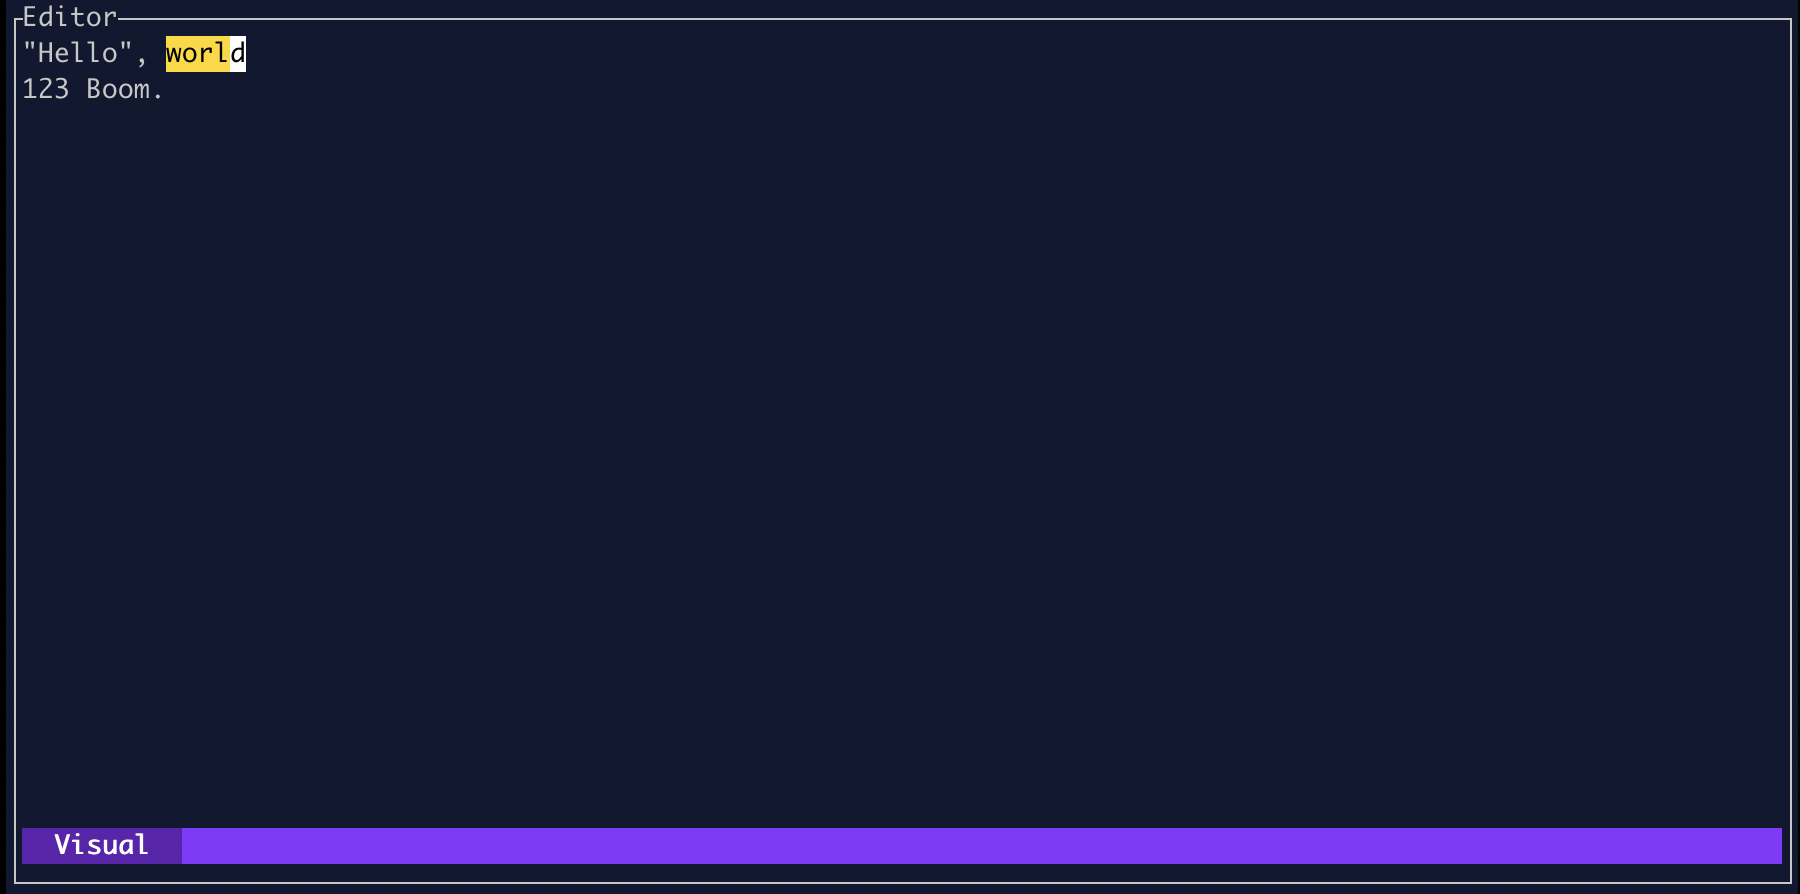
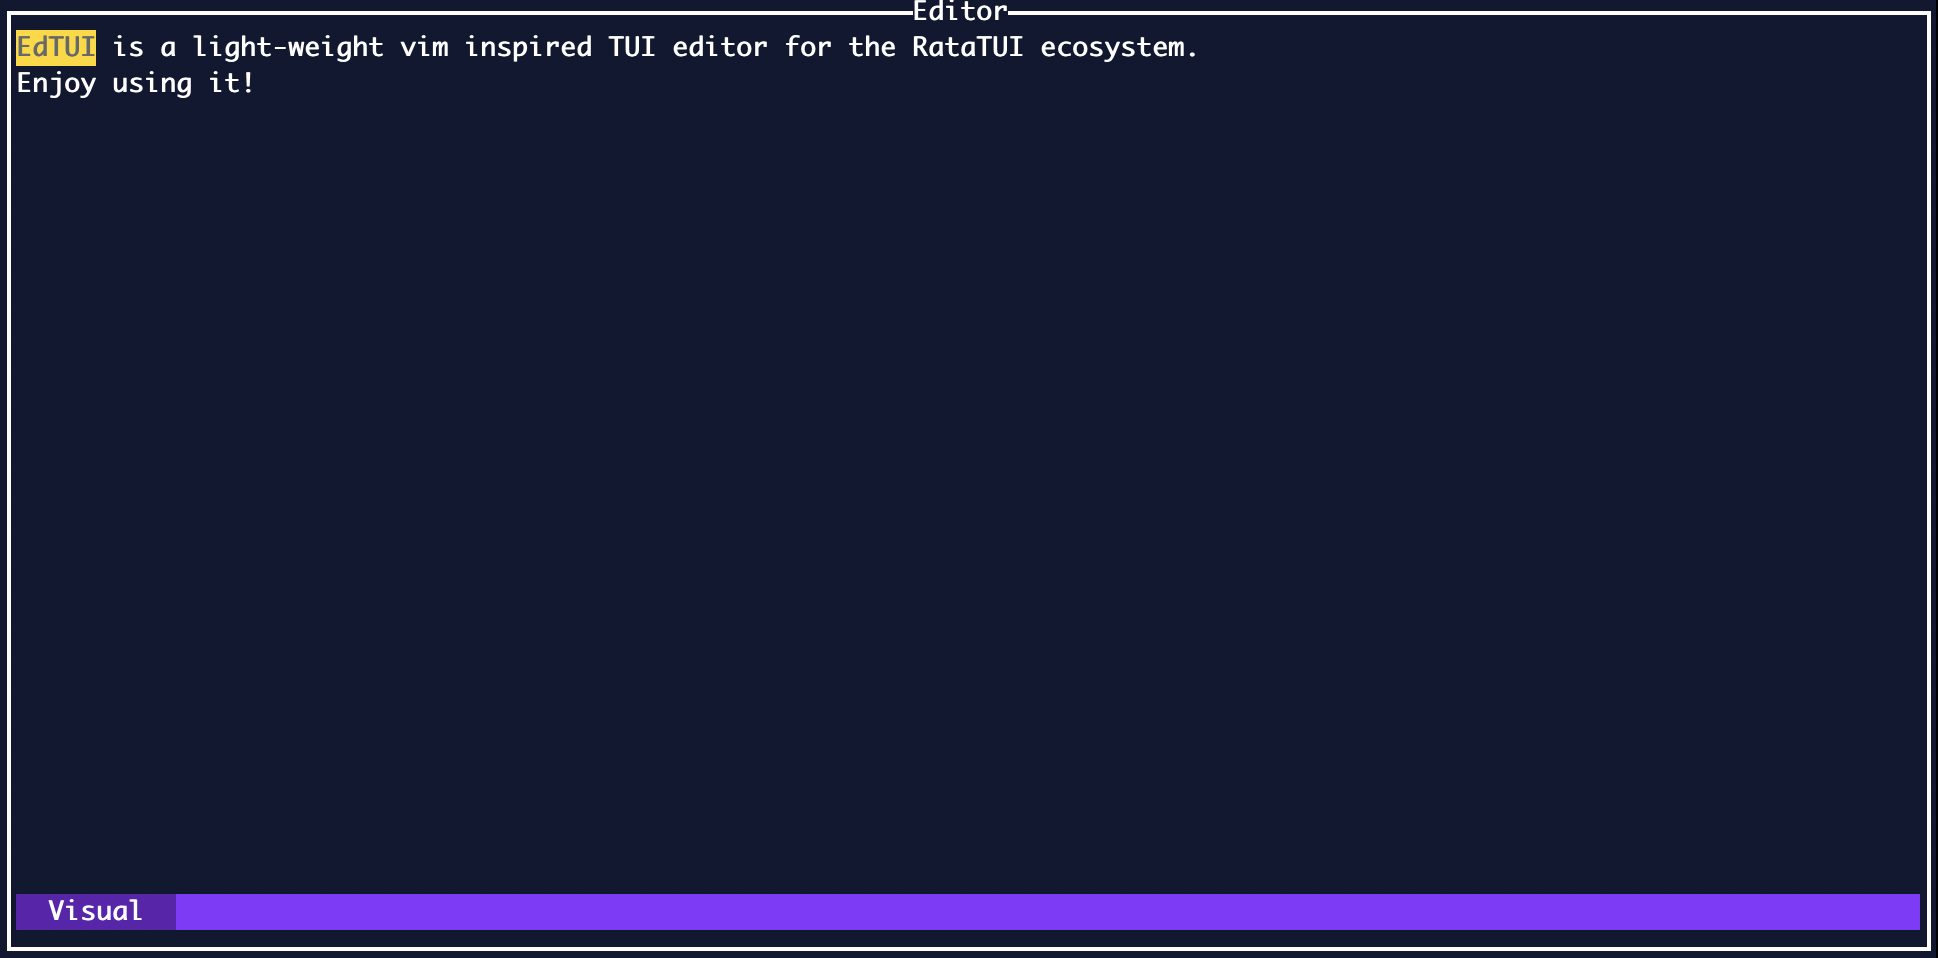
Update Demo

Changed region(s): [[0.0, 0.0, 1.0, 1.0]]

diff --git a/examples/app/main.rs b/examples/app/main.rs
@@ -26,8 +26,8 @@ impl AppContext {
     pub fn new() -> Self {
         Self {
             editor_state: EditorState::new(Lines::from(
-                "\"Hello\",
-This is a light-weight vim inspired TUI editor.",
+                "EdTUI is a light-weight vim inspired TUI editor for the RataTUI ecosystem.
+Enjoy using it!",
             )),
             editor_input: Input::default(),
         }
